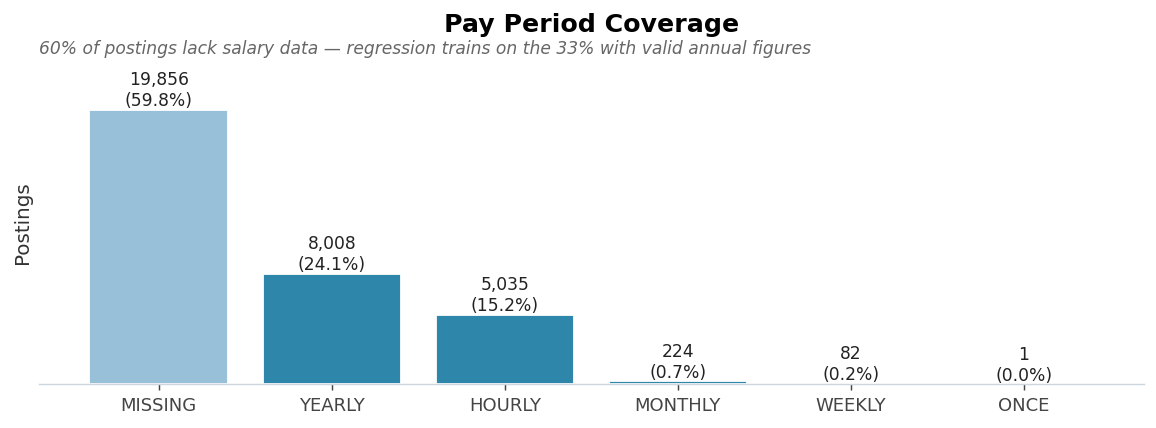
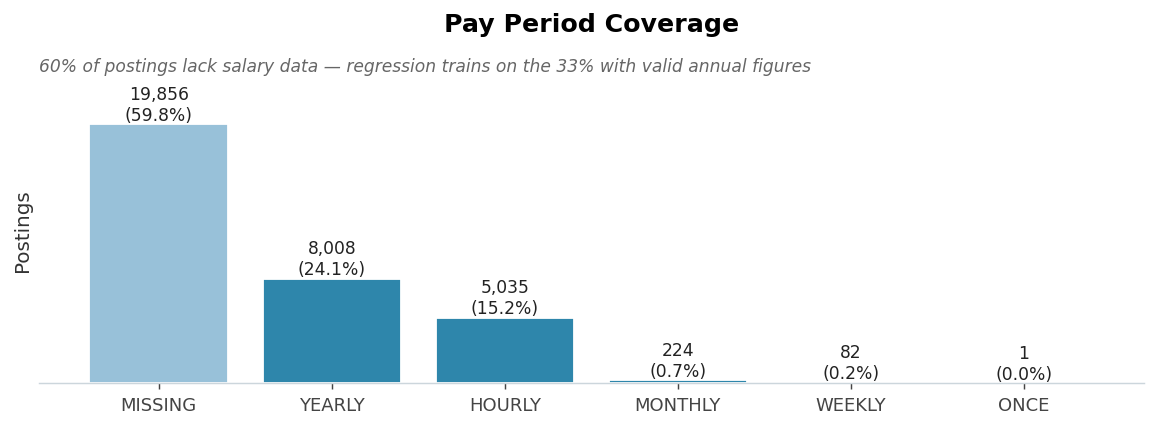
Fix chart subtitle alignment and title spacing

diff --git a/src/visualization.py b/src/visualization.py
@@ -117,7 +117,7 @@ def _setup_theme() -> None:
         "axes.linewidth": 0.8,
         "axes.titlesize": 14,
         "axes.titleweight": "bold",
-        "axes.titlepad": 16,
+        "axes.titlepad": 26,
         "axes.labelsize": 11,
         "axes.labelcolor": "#333333",
         "xtick.labelsize": 10,
@@ -147,6 +147,11 @@ def _dollar_fmt(x, _pos):
 
 
 def _subtitle(ax, text: str) -> None:
+    # Add a newline to the main title to push it up, creating space
+    title = ax.get_title()
+    ax.set_title(f"{title}\n", pad=10)
+    
+    # Place the subtitle perfectly in the gap
     ax.text(0.0, 1.02, text, transform=ax.transAxes,
             fontsize=9.5, color="#666666", style="italic")
 
